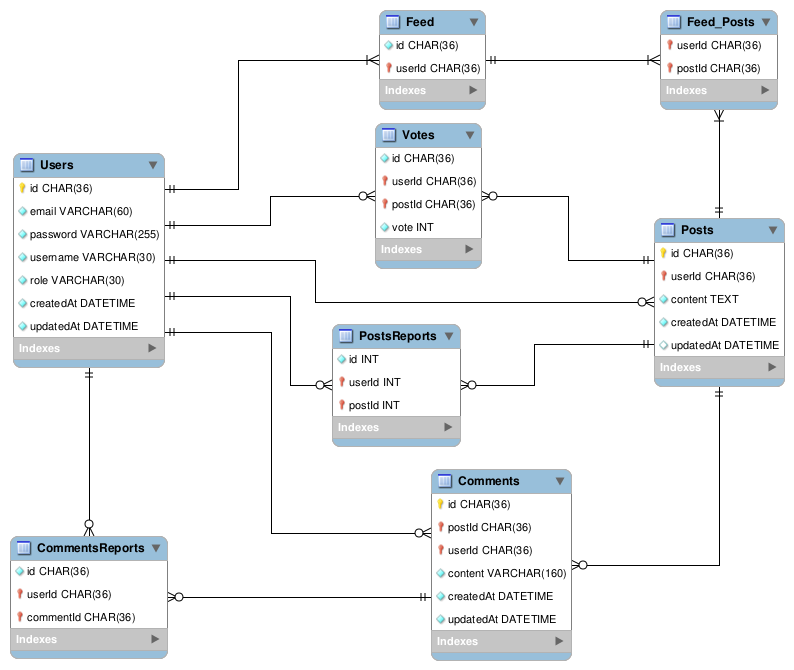
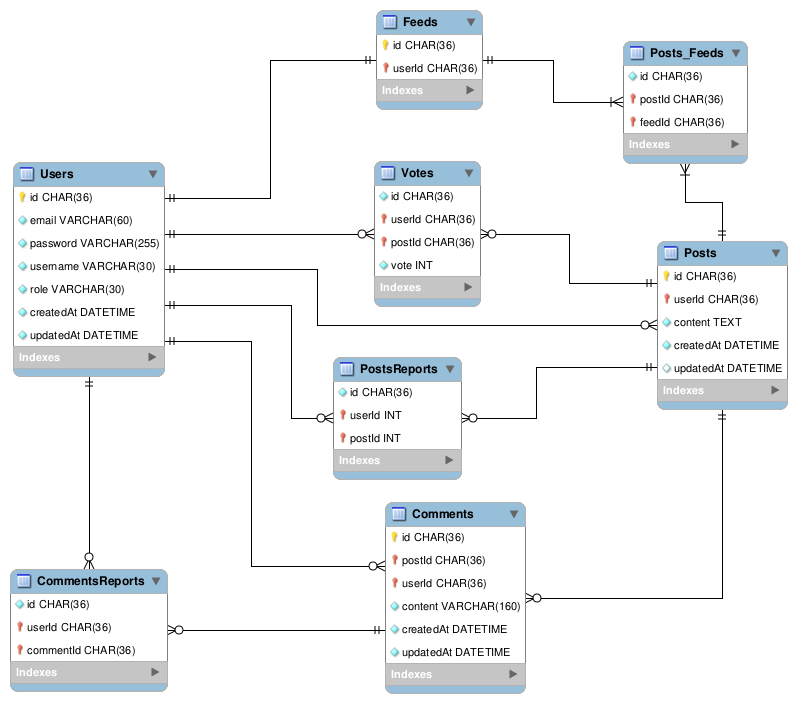
Update ERD + Add Feeds models and controller

diff --git a/app/controllers/posts.controller.js b/app/controllers/posts.controller.js
@@ -5,7 +5,7 @@ const Sequelize = require('sequelize');
 const { getPagination, getPagingData } = require('../services/paginator');
 const errorHandler = require('../services/errorHandler');
 const {
-  Posts, Users, Comments, Votes, PostsReports,
+  Posts, Users, Comments, Votes, PostsReports, Feeds,
 } = require('../models');
 
 /**
@@ -23,6 +23,8 @@ exports.publish = async (req, res) => {
     }
 
     const datas = await user.createPost(req.body, { fields: ['content'] });
+    const feed = await user.getFeed();
+    await feed.addPost(datas);
 
     const post = hateoas(datas.dataValues)
       .addLink('self', { method: 'GET', href: `${process.env.apiBaseDir}/posts/${datas.id}` })
@@ -383,6 +385,80 @@ exports.getPostReports = async (req, res, next) => {
     const result = getPagingData(datas, datas.rows, req.baseUrl, page, limit);
 
     return res.json(result);
+  } catch (e) {
+    errorHandler(e, res);
+  }
+};
+
+/**
+ * Share a post the user's feed
+ * @param req
+ * @param res
+ * @param next
+ * @return {Promise<*>}
+ */
+exports.sharePost = async (req, res, next) => {
+  const { id } = req.params;
+
+  if (!id || !isUUID(id)) {
+    return next();
+  }
+
+  try {
+    const post = await Posts.findOne({ where: { id } });
+
+    if (!post) {
+      return res.status(404).json({ message: 'Post not found' });
+    }
+
+    const feed = await Feeds.findOne({ where: { userId: req.user.id } });
+
+    if (await feed.hasPost(post)) {
+      return res.status(409).json({ message: 'You already have this post in your feed' });
+    }
+
+    await feed.setPost(post);
+
+    return res.json({ message: 'Post has been shared in your feed' });
+  } catch (e) {
+    errorHandler(e, res);
+  }
+};
+
+/**
+ * Unshare a post from the user's feed
+ * @param req
+ * @param res
+ * @param next
+ * @return {Promise<*>}
+ */
+exports.unsharePost = async (req, res, next) => {
+  const { id } = req.params;
+
+  if (!id || !isUUID(id)) {
+    return next();
+  }
+
+  try {
+    const post = await Posts.findOne({ where: { id } });
+
+    if (!post) {
+      return res.status(404).json({ message: 'Post not found' });
+    }
+
+    if (post.userId === req.user.id) {
+      return res.status(403).json({ message: 'You can\'t unshare your own post' });
+    }
+
+    const feed = await Feeds.findOne({ where: { userId: req.user.id } });
+
+    if (!await feed.hasPost(post)) {
+      return res.status(409).json({ message: 'The post is not inside the feed' });
+    }
+
+    await feed.removePost(post);
+
+    return res.json({ message: 'Post has been unshared from your feed' });
   } catch (e) {
     errorHandler(e, res);
   }

diff --git a/app/controllers/users.controller.js b/app/controllers/users.controller.js
@@ -1,7 +1,7 @@
 const hateoas = require('halson');
 const { validate: isUUID } = require('uuid');
 
-const { Users } = require('../models');
+const { Users, Feeds } = require('../models');
 const { getPagination, getPagingData } = require('../services/paginator');
 const errorHandler = require('../services/errorHandler');
 const { revokeAccess } = require('../middlewares/authenticate.middleware');
@@ -202,6 +202,41 @@ exports.updateUserPassword = async (req, res, next) => {
     await user.save();
 
     return res.json({ message: 'The password has been updated' });
+  } catch (e) {
+    errorHandler(e, res);
+  }
+};
+
+/**
+ * Get user feed (posts)
+ * @param req
+ * @param res
+ * @param next
+ * @return {Promise<*>}
+ */
+exports.getUserFeed = async (req, res, next) => {
+  const { page, size } = req.query;
+  const { limit, offset } = getPagination(page, size);
+
+  const { id } = req.params;
+
+  if (!id || !isUUID(id)) {
+    return next();
+  }
+
+  try {
+    const feed = await Feeds.findOne({ where: { userId: id } });
+
+    if (!feed) {
+      return res.status(404).json('User not found');
+    }
+
+    const count = await feed.countPosts();
+    const posts = await feed.getPosts({ limit, offset });
+
+    const paginatedFeedPosts = getPagingData({ count }, posts, req.baseUrl, page, limit);
+
+    return res.json(paginatedFeedPosts);
   } catch (e) {
     errorHandler(e, res);
   }

diff --git a/app/models/posts.js b/app/models/posts.js
@@ -10,15 +10,17 @@ module.exports = (sequelize, DataTypes) => {
      * The `models/index` file will call this method automatically.
      */
     static associate({
-      Users, Comments, Attachments, PostsReports, Votes,
+      Users, Comments, PostsReports, Votes, Feeds, Posts_Feeds,
     }) {
       // define association here
       this.belongsTo(Users, { foreignKey: 'userId', as: 'user' });
-      this.hasMany(Comments, { foreignKey: 'postId', as: 'comments', onDelete: 'CASCADE' });
-      this.hasMany(PostsReports, { foreignKey: 'postId', as: 'reports', onDelete: 'CASCADE' });
+      this.hasMany(Comments, { foreignKey: 'postId', as: 'comments', onDelete: 'cascade' });
+      this.hasMany(PostsReports, { foreignKey: 'postId', as: 'reports', onDelete: 'cascade' });
       this.hasMany(Votes, { foreignKey: 'postId', as: 'votes', onDelete: 'cascade' });
+      this.belongsToMany(Feeds, { through: Posts_Feeds, foreignKey: 'postId' });
     }
   }
+
   Posts.init({
     id: {
       type: DataTypes.UUID,
@@ -45,5 +47,6 @@ module.exports = (sequelize, DataTypes) => {
     sequelize,
     modelName: 'Posts',
   });
+
   return Posts;
 };

diff --git a/app/models/posts_feeds.js b/app/models/posts_feeds.js
@@ -1,0 +1,47 @@
+const {
+  Model,
+} = require('sequelize');
+
+module.exports = (sequelize, DataTypes) => {
+  class Posts_Feeds extends Model {
+    /**
+     * Helper method for defining associations.
+     * This method is not a part of Sequelize lifecycle.
+     * The `models/index` file will call this method automatically.
+     */
+    static associate(models) {
+      // define association here
+    }
+  }
+  Posts_Feeds.init({
+    id: {
+      primaryKey: true,
+      type: DataTypes.UUID,
+      defaultValue: DataTypes.UUIDV4,
+    },
+
+    postId: {
+      type: DataTypes.UUID,
+      allowNull: false,
+      references: {
+        model: 'Posts',
+        key: 'id',
+      },
+    },
+
+    feedId: {
+      type: DataTypes.UUID,
+      allowNull: false,
+      references: {
+        model: 'Feeds',
+        key: 'id',
+      },
+    },
+  }, {
+    sequelize,
+    modelName: 'Posts_Feeds',
+    timestamps: false,
+  });
+
+  return Posts_Feeds;
+};

diff --git a/app/models/users.js b/app/models/users.js
@@ -9,7 +9,7 @@ module.exports = (sequelize, DataTypes) => {
      * The `models/index` file will call this method automatically.
      */
     static associate({
-      Posts, Comments, PostsReports, Votes, CommentsReports, RefreshTokens,
+      Posts, Comments, PostsReports, Votes, CommentsReports, RefreshTokens, Feeds,
     }) {
       // define association here
       this.hasMany(Posts, { foreignKey: 'userId', as: 'posts', onDelete: 'set null' });
@@ -18,6 +18,7 @@ module.exports = (sequelize, DataTypes) => {
       this.hasMany(Votes, { foreignKey: 'userId', as: 'votes', onDelete: 'cascade' });
       this.hasMany(CommentsReports, { foreignKey: 'userId', as: 'reportedComments', onDelete: 'cascade' });
       this.hasMany(RefreshTokens, { foreignKey: 'userId', as: 'refreshTokens', onDelete: 'cascade' });
+      this.hasOne(Feeds, { foreignKey: 'userId', as: 'feed', onDelete: 'cascade' });
     }
 
     toJSON() {

diff --git a/app/models/feeds.js b/app/models/feeds.js
@@ -1,0 +1,36 @@
+const {
+  Model,
+} = require('sequelize');
+
+module.exports = (sequelize, DataTypes) => {
+  class Feeds extends Model {
+    /**
+     * Helper method for defining associations.
+     * This method is not a part of Sequelize lifecycle.
+     * The `models/index` file will call this method automatically.
+     */
+    static associate({ Posts, Users, Posts_Feeds }) {
+      this.belongsToMany(Posts, { through: Posts_Feeds, foreignKey: 'feedId' });
+      this.belongsTo(Users, { foreignKey: 'userId', as: 'user' });
+    }
+  }
+
+  Feeds.init({
+    id: {
+      primaryKey: true,
+      type: DataTypes.UUID,
+      defaultValue: DataTypes.UUIDV4,
+    },
+
+    userId: {
+      type: DataTypes.UUID,
+      allowNull: false,
+    },
+  }, {
+    sequelize,
+    modelName: 'Feeds',
+    timestamps: false,
+  });
+
+  return Feeds;
+};

diff --git a/app/migrations/20210911211721-create-posts-feeds.js b/app/migrations/20210911211721-create-posts-feeds.js
@@ -1,0 +1,33 @@
+module.exports = {
+  up: async (queryInterface, Sequelize) => {
+    await queryInterface.createTable('Posts_Feeds', {
+      id: {
+        type: Sequelize.UUID,
+        defaultValue: Sequelize.UUIDV4,
+        allowNull: false,
+        primaryKey: true,
+      },
+
+      postId: {
+        type: Sequelize.UUID,
+        onDelete: 'CASCADE',
+        references: {
+          model: 'Posts',
+          key: 'id',
+        },
+      },
+
+      feedId: {
+        type: Sequelize.UUID,
+        onDelete: 'CASCADE',
+        references: {
+          model: 'Feeds',
+          key: 'id',
+        },
+      },
+    });
+  },
+  down: async (queryInterface, Sequelize) => {
+    await queryInterface.dropTable('Posts_Feeds');
+  },
+};

diff --git a/app/migrations/20210911203909-create-feeds.js b/app/migrations/20210911203909-create-feeds.js
@@ -1,0 +1,26 @@
+module.exports = {
+  up: async (queryInterface, Sequelize) => {
+    await queryInterface.createTable('Feeds', {
+      id: {
+        type: Sequelize.UUID,
+        defaultValue: Sequelize.UUIDV4,
+        allowNull: false,
+        primaryKey: true,
+      },
+
+      userId: {
+        unique: true,
+        type: Sequelize.UUID,
+        allowNull: false,
+        onDelete: 'cascade',
+        references: {
+          model: 'Users',
+          key: 'id',
+        },
+      },
+    });
+  },
+  down: async (queryInterface, Sequelize) => {
+    await queryInterface.dropTable('Feeds');
+  },
+};

diff --git a/app/routes/posts.routes.js b/app/routes/posts.routes.js
@@ -13,11 +13,13 @@ router.get('/:id/comments', postsController.getPostComments);
 router.get('/:id/reports', hasRole('admin'), postsController.getPostReports);
 
 router.post('/', postsController.publish);
+router.post('/:id/share', postsController.sharePost);
 router.post('/:id/votes', postsController.handleVote);
 router.post('/:id/reports', postsController.reportPost);
 
 router.patch('/:id', postsController.updatePost);
 
 router.delete('/:id', postsController.deletePost);
+router.delete('/:id/share', postsController.unsharePost);
 
 module.exports = router;

diff --git a/app/routes/users.routes.js b/app/routes/users.routes.js
@@ -8,6 +8,7 @@ const usersController = require('../controllers/users.controller');
 
 router.get('/', usersController.getAllUsers);
 router.get('/:id', usersController.getUserById);
+router.get('/:id/feeds', usersController.getUserFeed);
 
 router.delete('/:id', usersController.deleteUser);
 

diff --git a/app/controllers/auth.controller.js b/app/controllers/auth.controller.js
@@ -75,6 +75,8 @@ exports.signup = async (req, res) => {
       fields: ['email', 'password', 'username'],
     });
 
+    await user.createFeed();
+
     return res.status(201).json({
       ...user.dataValues, password: undefined, createdAt: undefined, updatedAt: undefined,
     });
